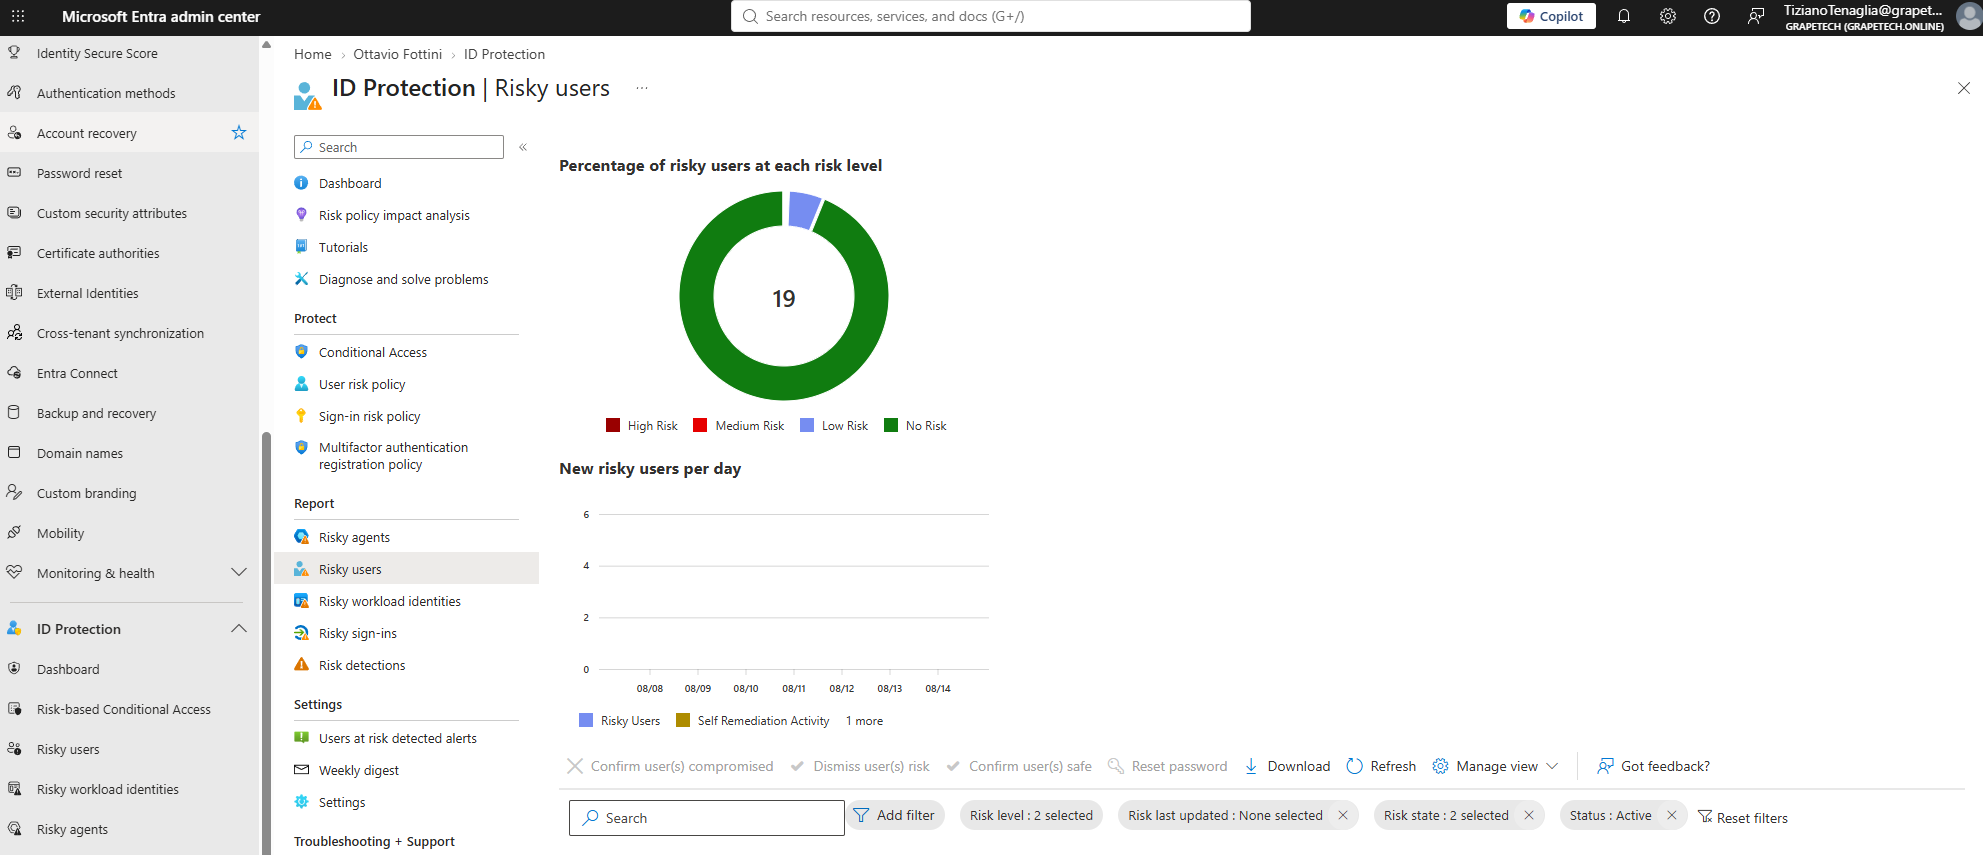
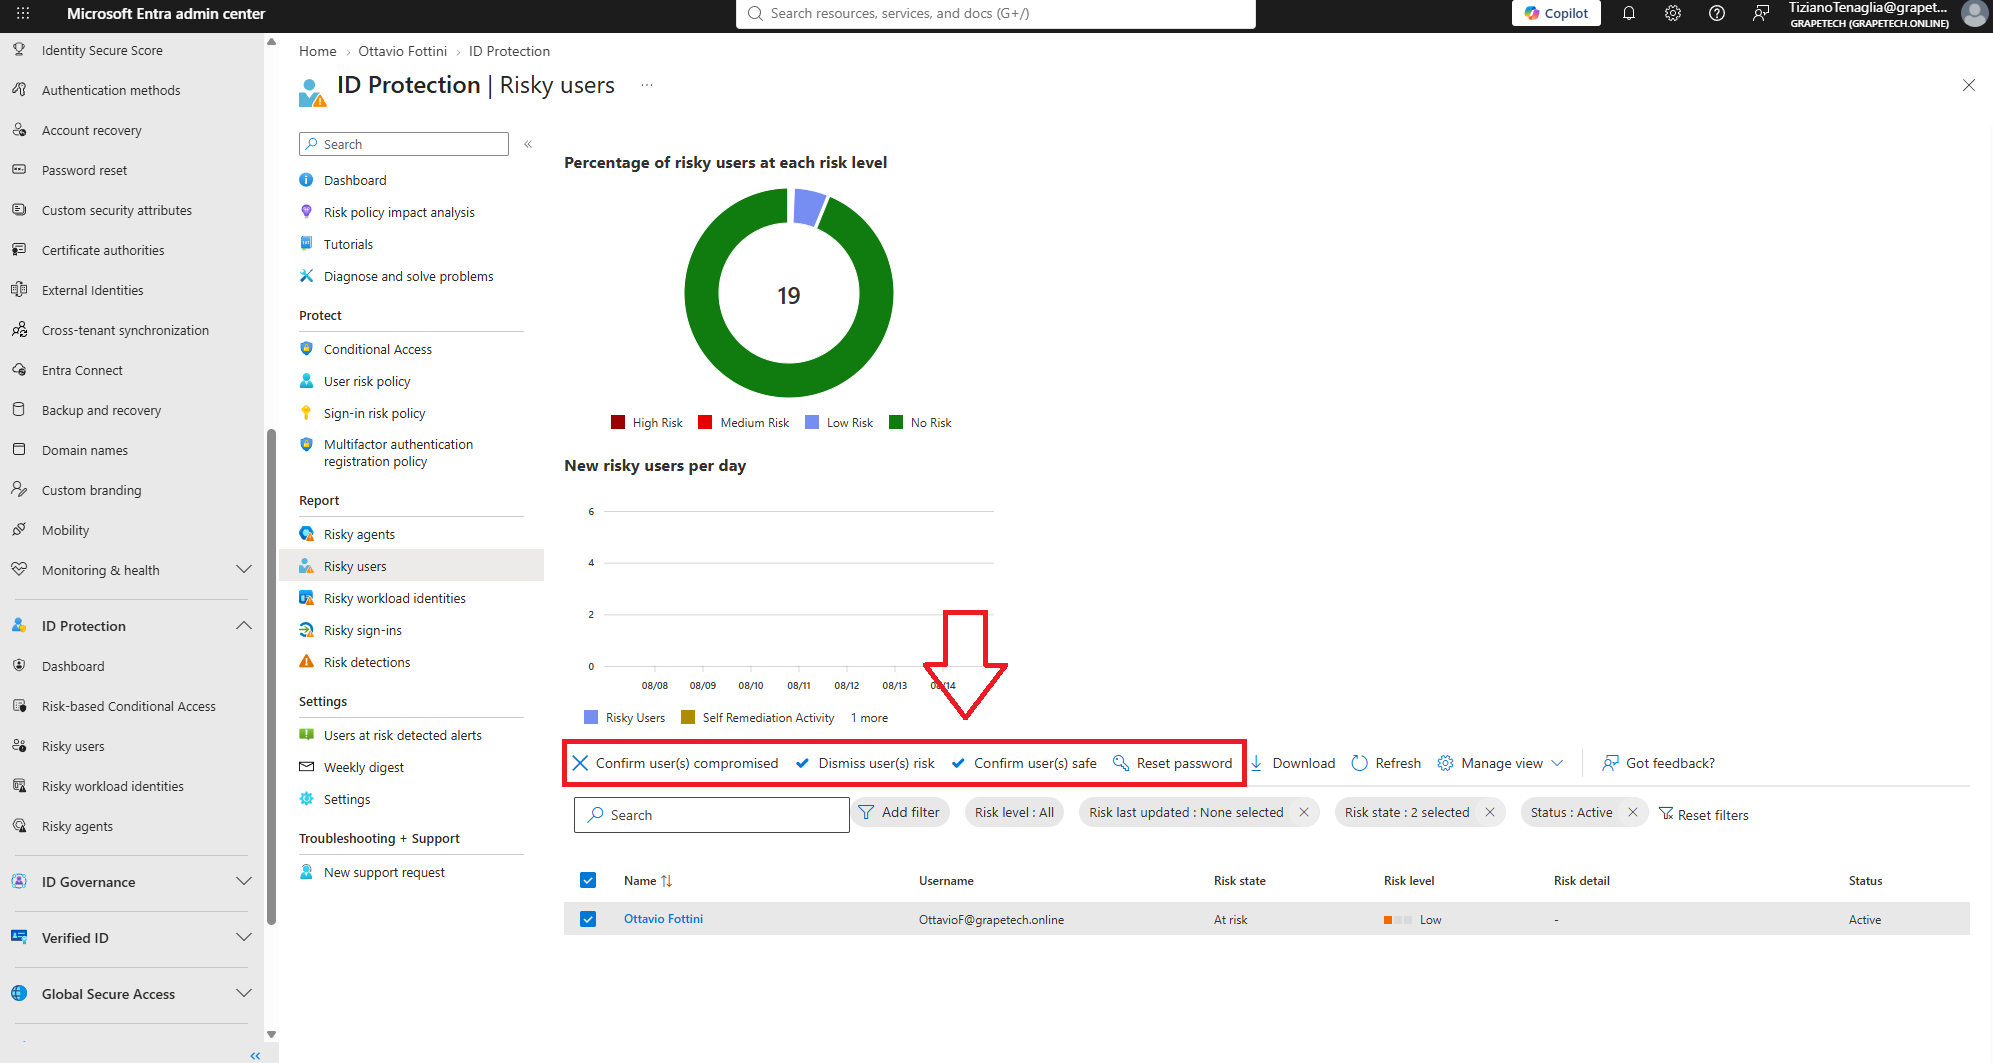
Remediation

diff --git a/IAM Project Entra ID/3 Identity Protection/3.1 Practical assessment/Risk detection.md b/IAM Project Entra ID/3 Identity Protection/3.1 Practical assessment/Risk detection.md
@@ -48,6 +48,16 @@ Went back to Risky users afterward: the donut chart now shows a small Low Risk s
 18 "No Risk" users (Ottavio Fottini), confirming the detection also fed into the aggregate score,
 even though the individual detection itself was flagged High.
 
-![Risky users donut updated](imgs/torta.png)
-*ID Protection - Risky users report, donut chart now showing a small Low Risk slice among the 19
-users, confirming the aggregate risk score picked up the detection.*
+## Risky user remediation actions
+
+4 actions available on Risky users:
+
+- **Confirm user(s) compromised**: escalates risk to High/Confirmed compromised, feeds Microsoft's detection model, does NOT restore access - stays blocked until remediated.
+- **Dismiss user(s) risk**: marks as false positive, clears risk, restores access immediately.
+- **Confirm user(s) safe**: confirms activity was legitimate, clears risk, restores access.
+- **Reset password**: forces password change; once done, risk auto-resolves to "Remediated".
+
+For the Tor test (deliberate admin test, not a real attack): used Dismiss user(s) risk on Ottavio
+Fottini to close the incident without an unnecessary password reset.
+
+![Risky users remediation actions available](imgs/torta.png)
